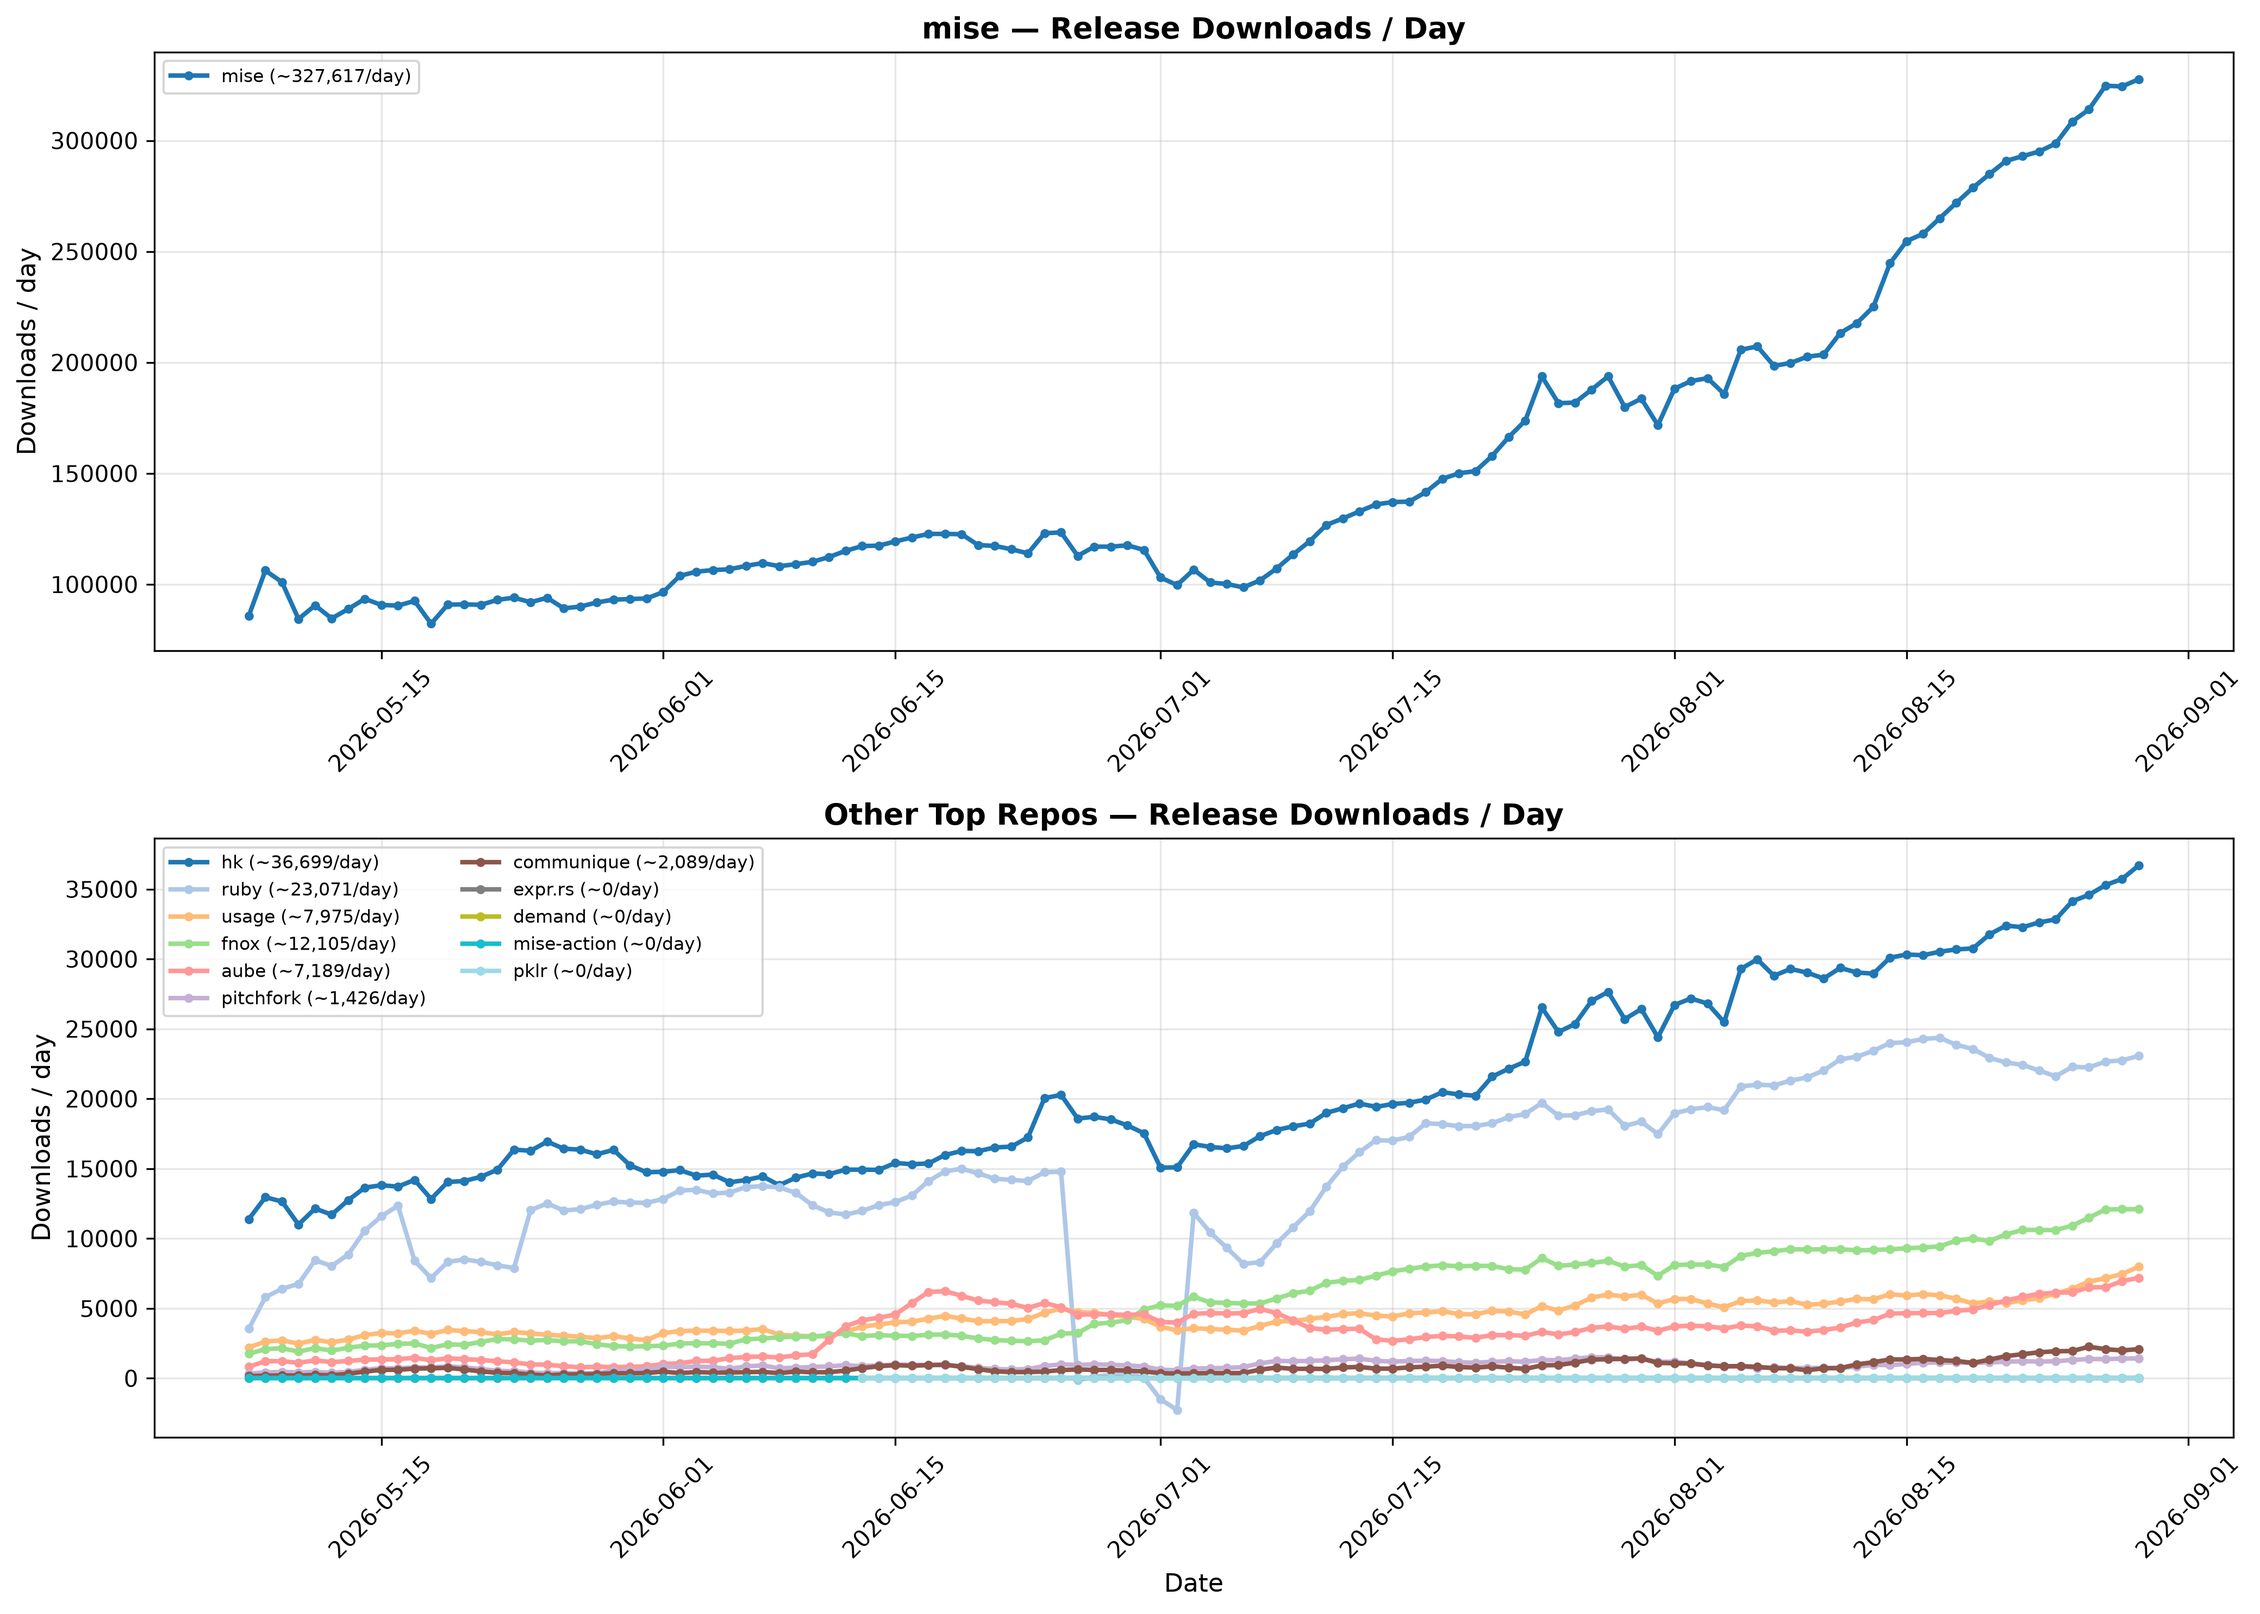
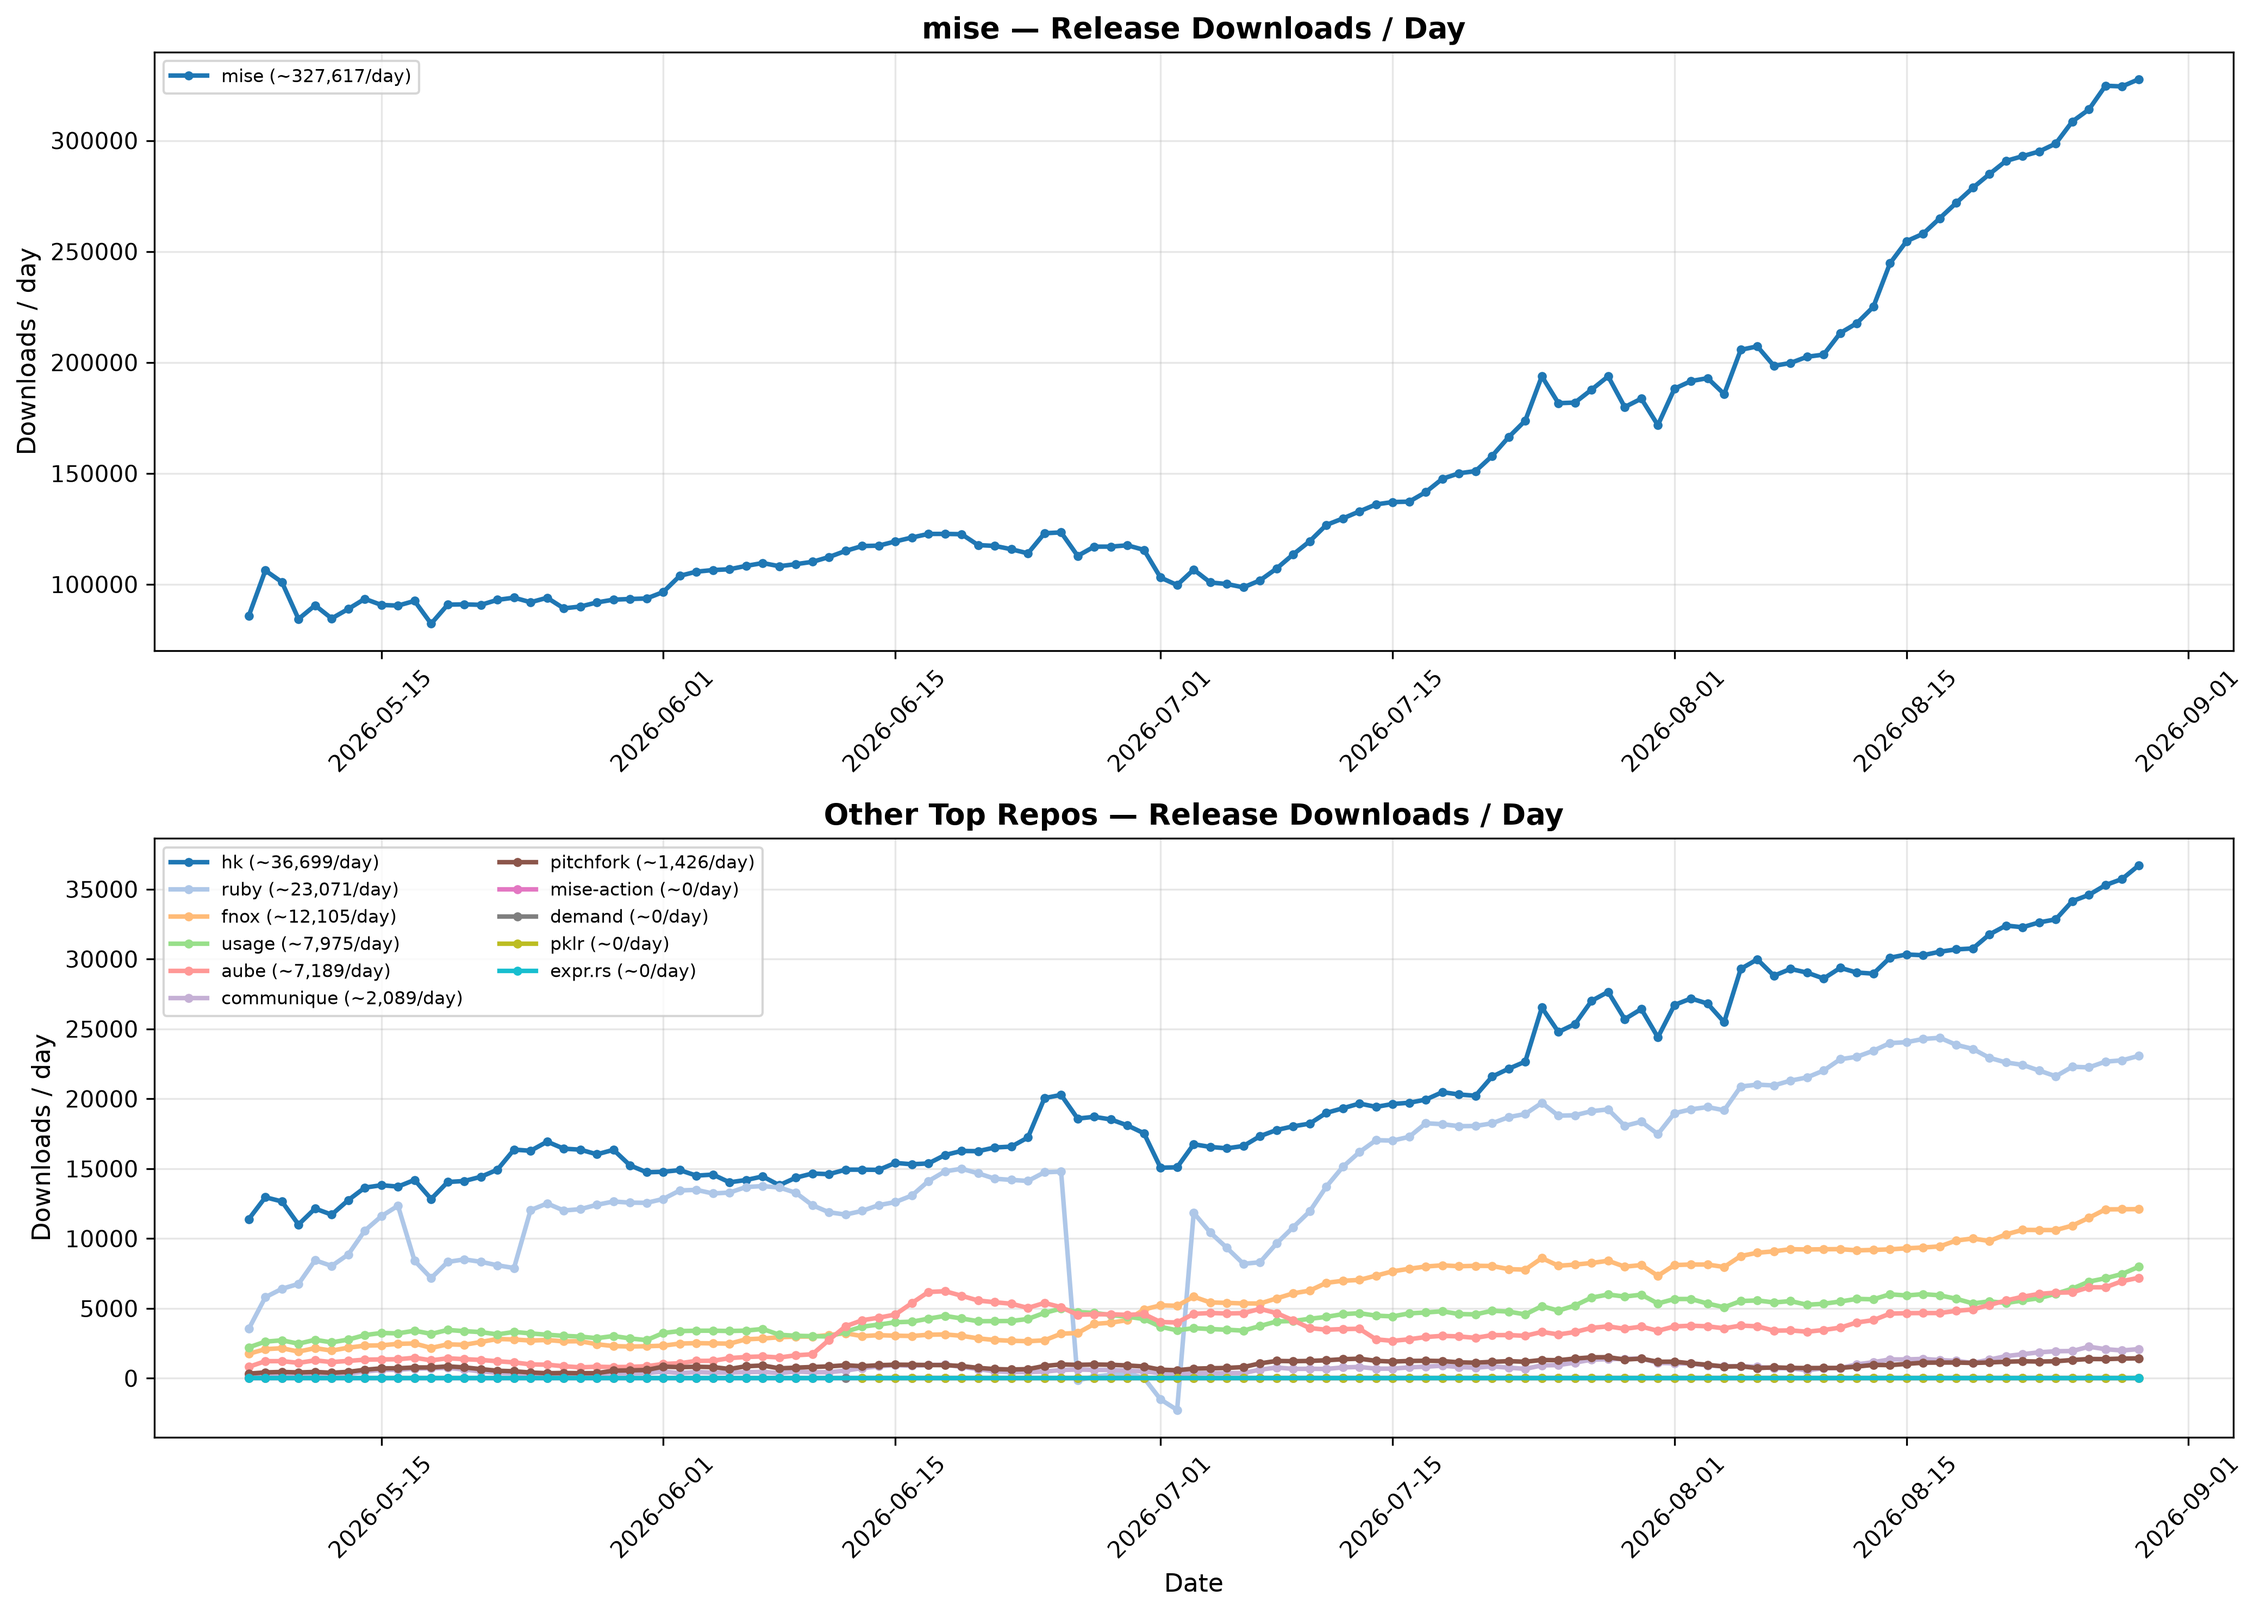
sort download chart by velocity

Changed region(s): [[0.1241, 0.7747, 0.9618, 0.8676], [0.0931, 0.5268, 0.3102, 0.6197], [0.8066, 0.7437, 0.9307, 0.8057]]

diff --git a/mise-tasks/plot-top-repos-downloads.py b/mise-tasks/plot-top-repos-downloads.py
@@ -106,24 +106,28 @@ def main():
     df = df[df["repo_name"].isin(tracked)]
 
     others = [r for r in tracked if r != "mise"]
-    others_latest = (
-        df[df["repo_name"].isin(others)]
-        .loc[lambda d: d.groupby("repo_name")["date"].idxmax()]
-        .sort_values("release_downloads", ascending=False)["repo_name"]
-        .tolist()
+    latest_velocities = {}
+    for repo in others:
+        velocity = velocity_for_repo(df[df["repo_name"] == repo])
+        if not velocity.empty:
+            latest_velocities[repo] = velocity["velocity"].iloc[-1]
+    others_by_velocity = sorted(
+        others,
+        key=lambda repo: latest_velocities.get(repo, float("-inf")),
+        reverse=True,
     )
 
     fig, (ax_mise, ax_others) = plt.subplots(2, 1, figsize=(14, 10))
 
     mise_colors = ["#1f77b4"]
     other_colors = plt.cm.tab20(
-        np.linspace(0, 1, max(len(others_latest), 1))
+        np.linspace(0, 1, max(len(others_by_velocity), 1))
     )
 
     plot_panel(ax_mise, ["mise"], df, mise_colors, "mise — Release Downloads / Day")
     plot_panel(
         ax_others,
-        others_latest,
+        others_by_velocity,
         df,
         other_colors,
         "Other Top Repos — Release Downloads / Day",
